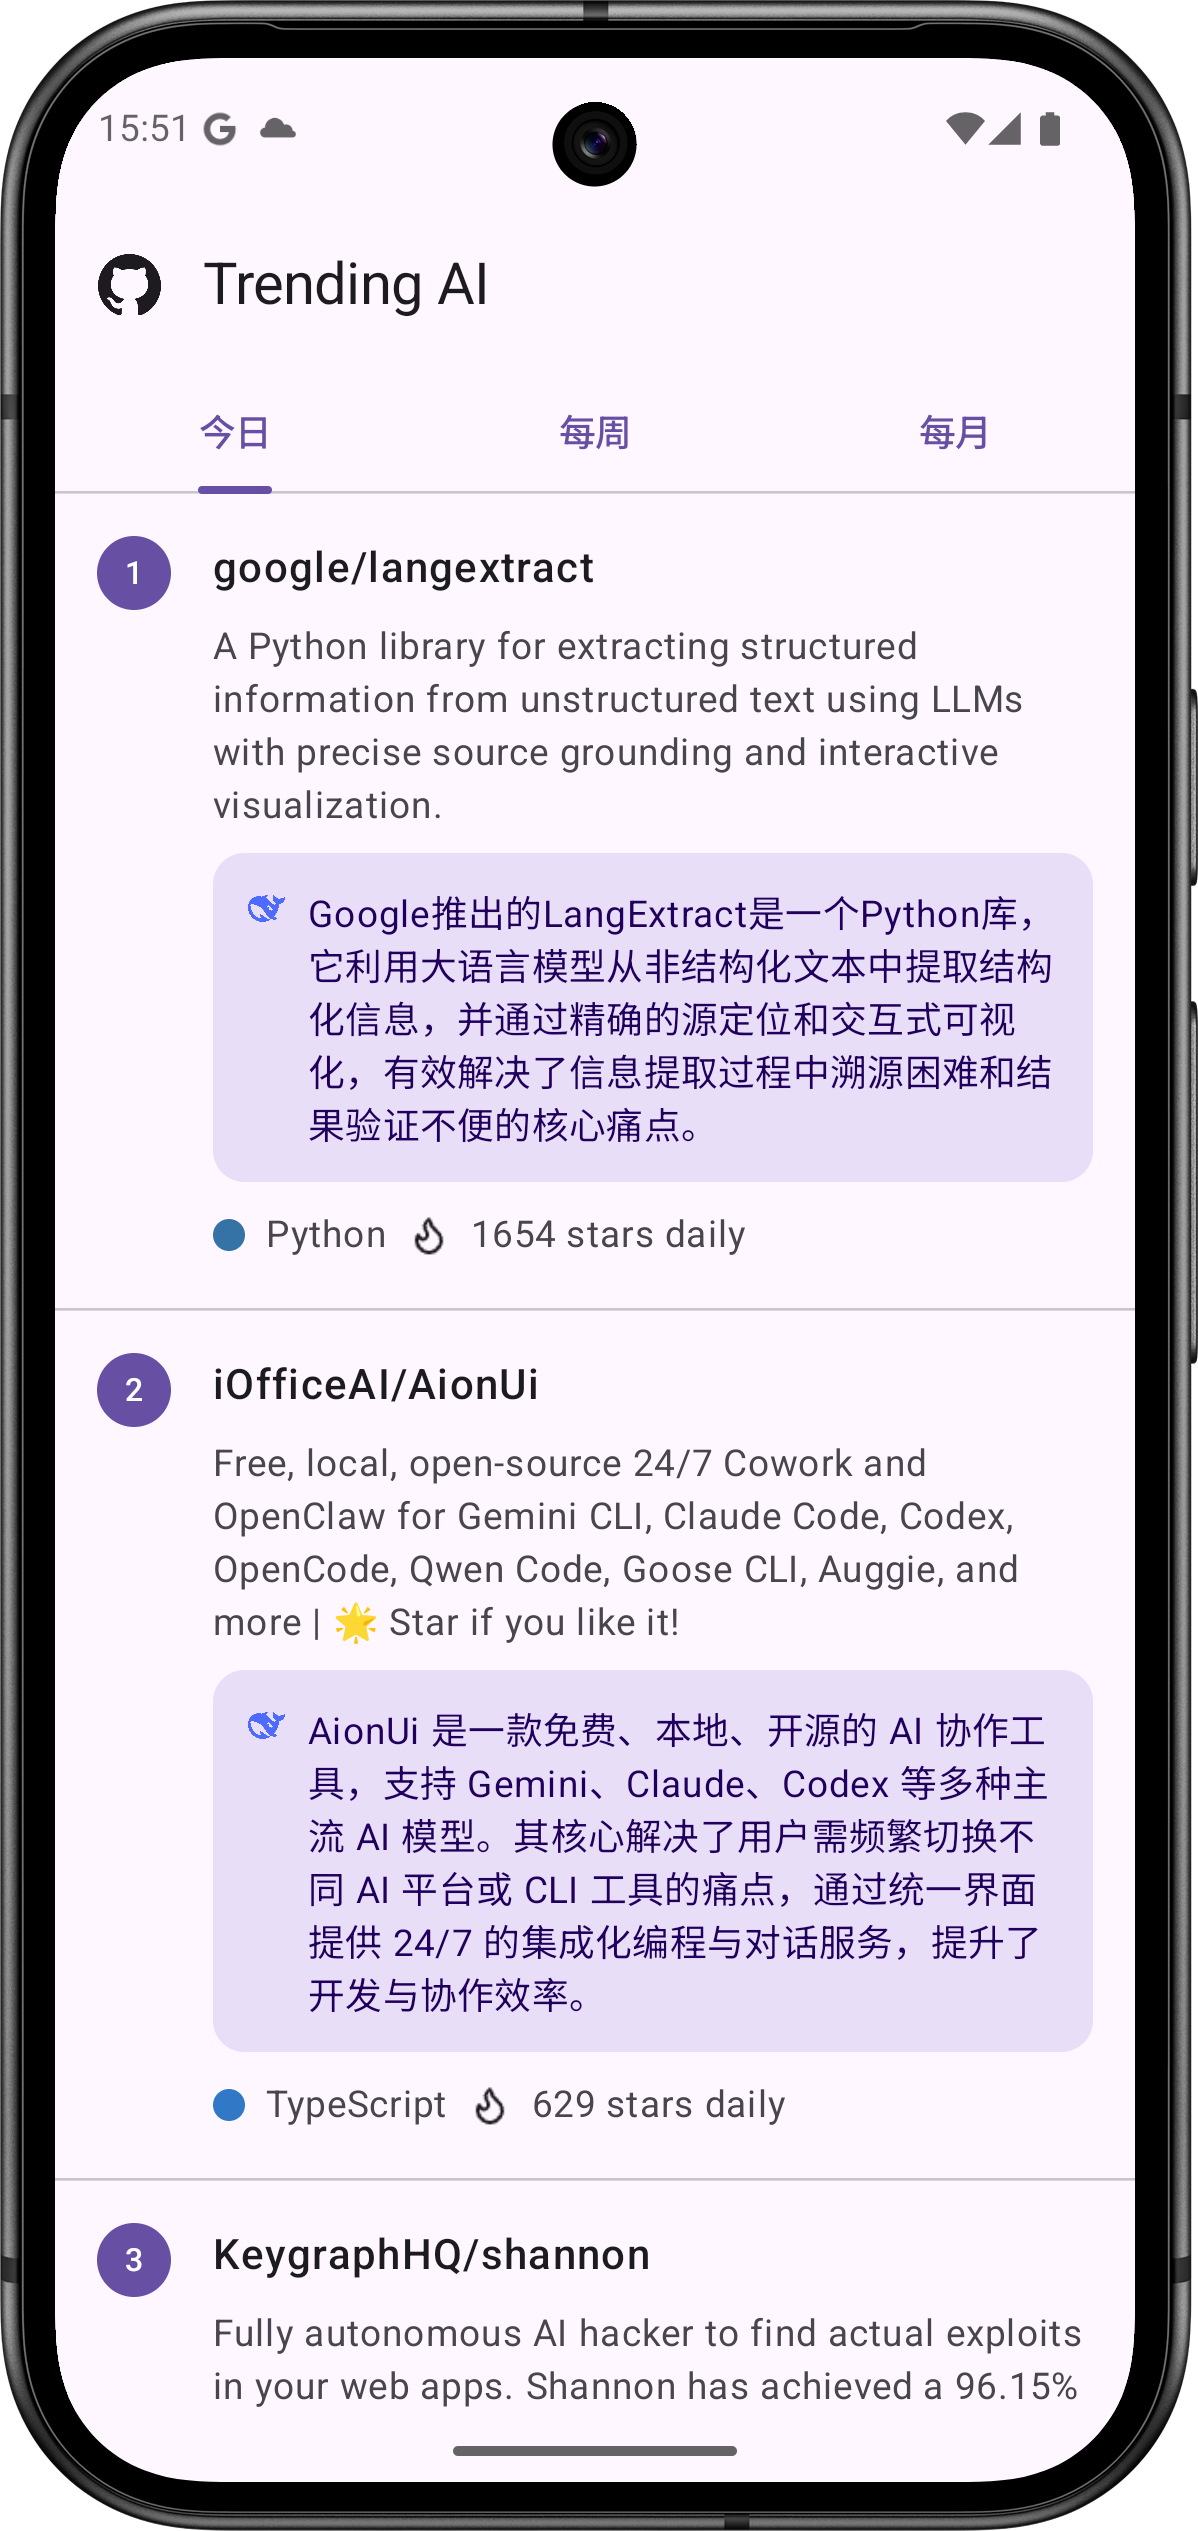
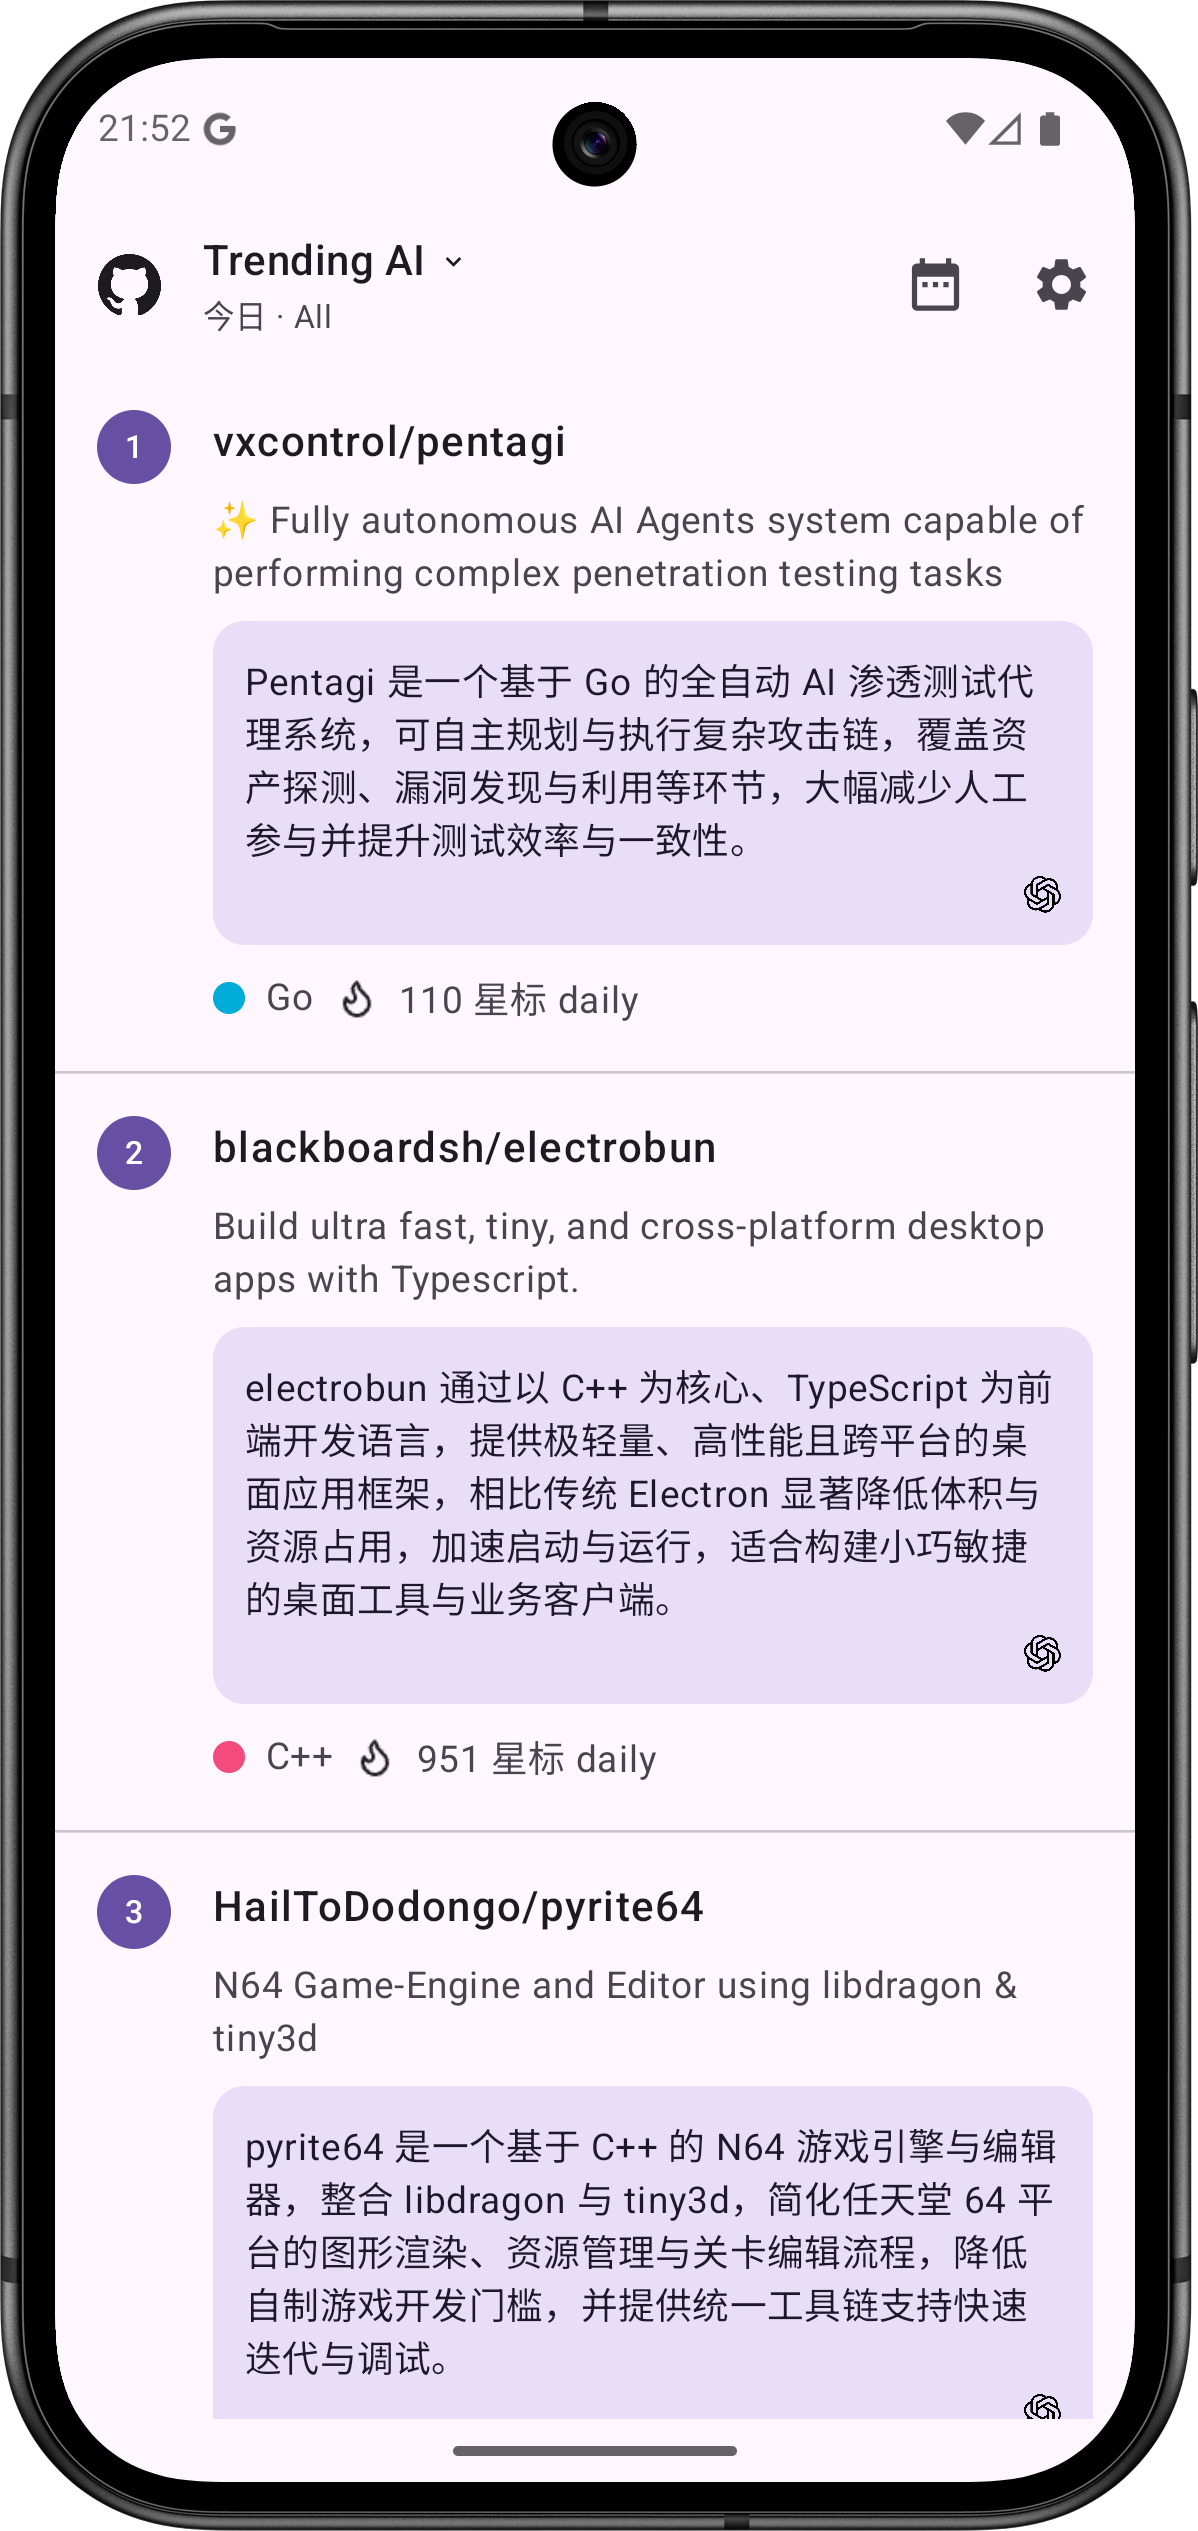
docs: 简化 README 界面预览并更新 Android 截图

diff --git a/README.md b/README.md
@@ -17,11 +17,7 @@
 
 ## 📸 界面预览
 
-| Android 预览 | iOS 预览 |
-| :---: | :---: |
-| <img src="assets/android_screenshot.png" width="300"> | <img src="assets/ios_screenshot.png" width="300"> |
-
----
+<img src="assets/android_screenshot.png" width="300">
 
 ## ✨ 核心功能
 
